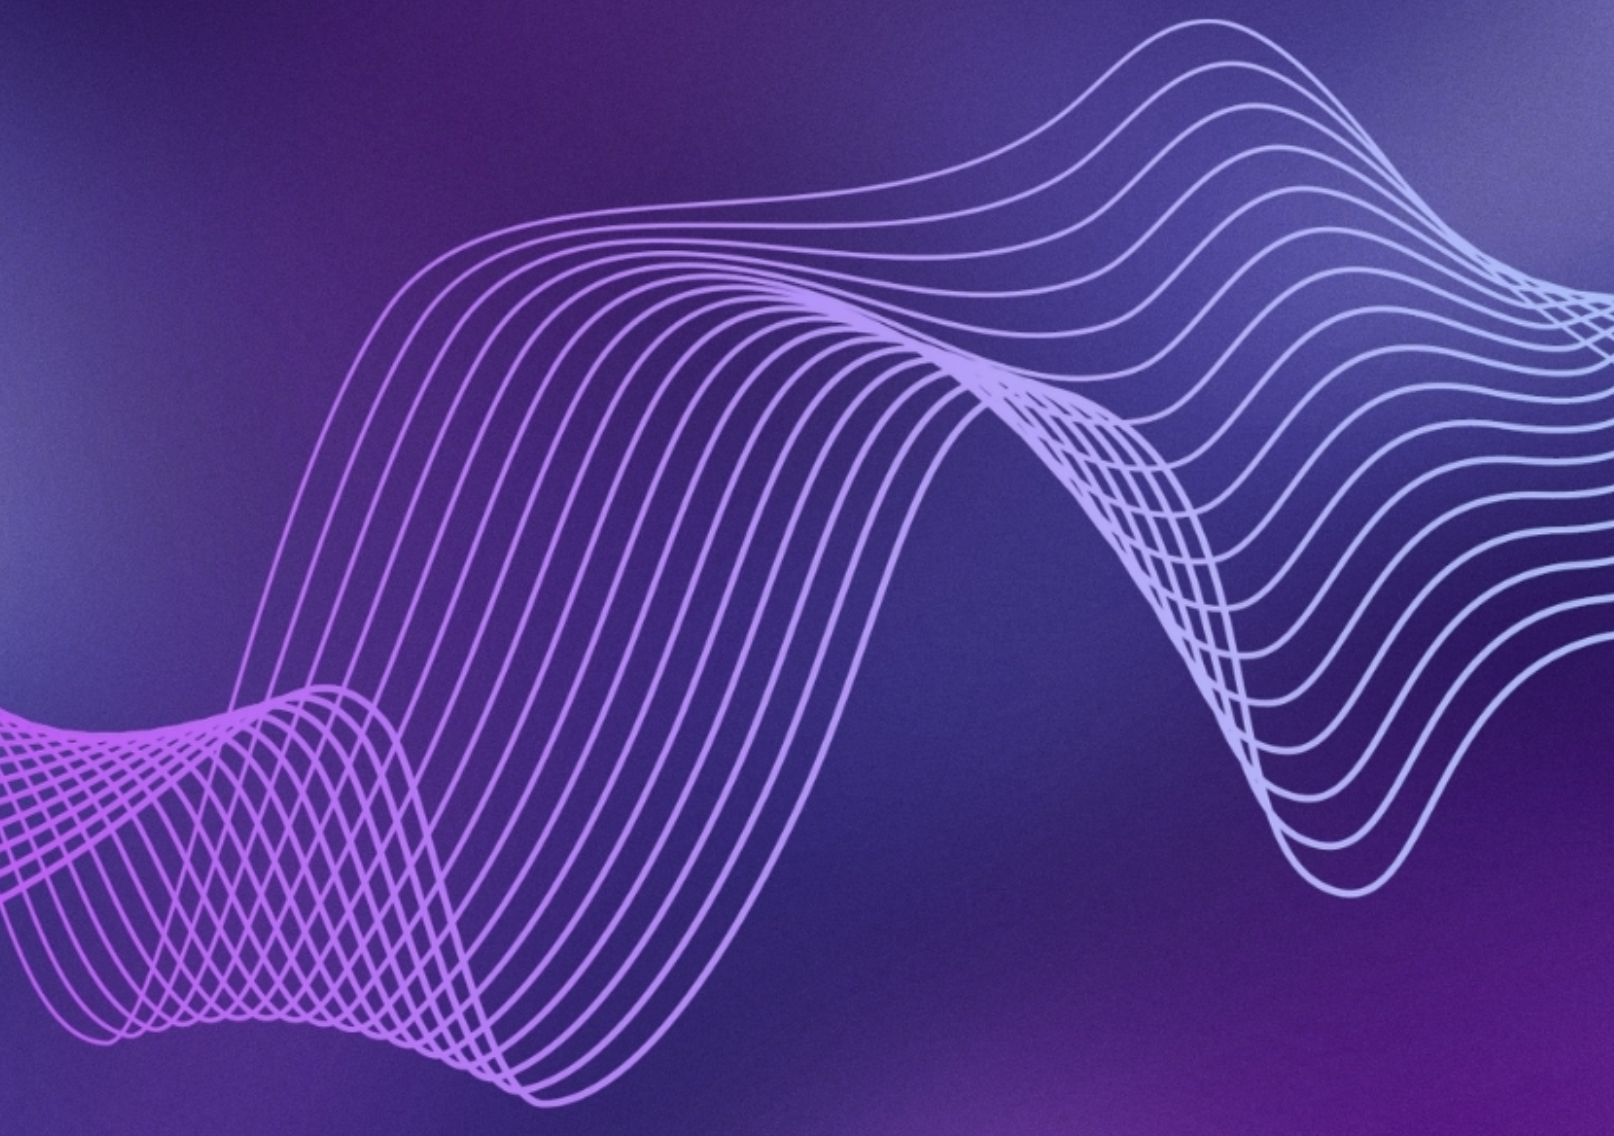
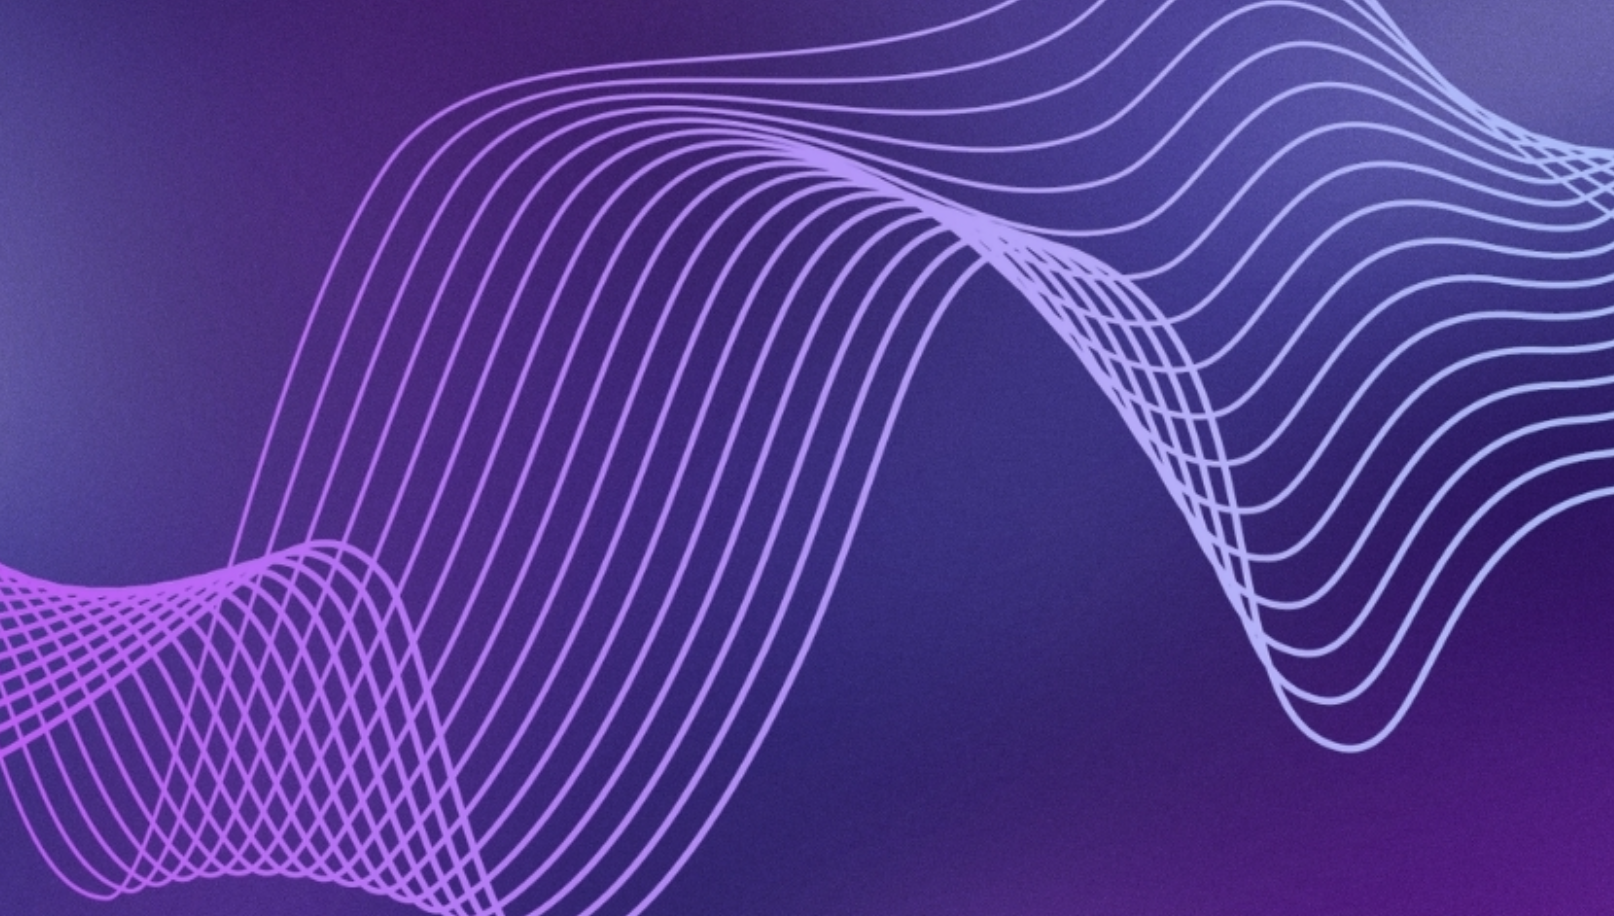
More updates.

diff --git a/index.html b/index.html
@@ -16,50 +16,38 @@ rep_row:
     title: "Research"
     excerpt: "Some of the research work being performed by the C3 lab and its partners.<br><br>"
     url: "/research/"
-    btn_label: "Read More"
-    btn_class: "btn--primary"
   - image_path: /assets/images/kris-talking.jpg
     alt: "engagement placeholder"
     title: "Engagement"
     excerpt: "In addition to our research work, the C3 Lab and its members are involved in a variety of endeavors across the Northwestern campus."
     url: "/engagement/"
-    btn_label: "Read More"
-    btn_class: "btn--primary"
   - image_path: /assets/images/lakefill-small.jpg
     alt: "people placeholder"
     title: "People"
     excerpt: "The hardworking folks who make up the C3 Lab.<br><br>"
     url: "/people/"
-    btn_label: "Read More"
-    btn_class: "btn--primary"
 ppp_row:
-  - image_path: /assets/images/c3-placeholder.png
+  - image_path: /assets/images/partners.jpg
     alt: "partners placeholder"
     title: "Partners"
     excerpt: ""
     url: "/partners/"
-    btn_label: "Read More"
-    btn_class: "btn--primary"
-  - image_path: /assets/images/c3-placeholder.png
+  - image_path: /assets/images/publication.png
     alt: "papers placeholder"
     title: "Papers"
     excerpt: ""
     url: "/papers/"
-    btn_label: "Read More"
-    btn_class: "btn--primary"
-  - image_path: /assets/images/c3-placeholder.png
+  - image_path: /assets/images/press.jpg
     alt: "people placeholder"
     title: "Press"
     excerpt: ""
     url: "/press/"
-    btn_label: "Read More"
-    btn_class: "btn--primary"
 ---
 
 <div class="intro-content">
   {% include feature_row id="intro" type="center" %}
 </div>
 
-{% include feature_row id="rep_row" %}
+{% include linked_feature_row.html id="rep_row" %}
 
-{% include feature_row id="ppp_row" %}
+{% include linked_feature_row.html id="ppp_row" %}

diff --git a/_includes/linked_feature_row.html b/_includes/linked_feature_row.html
@@ -1,0 +1,25 @@
+{% assign feature_row = page[include.id] %}
+
+<div class="feature__wrapper feature__wrapper--linked">
+  {% for f in feature_row %}
+    <div class="feature__item">
+      <a class="archive__item linked-feature-tile" href="{{ f.url | relative_url }}">
+        {% if f.image_path %}
+          <div class="archive__item-teaser">
+            <img src="{{ f.image_path | relative_url }}" alt="{{ f.alt | default: '' }}">
+          </div>
+        {% endif %}
+
+        <div class="archive__item-body">
+          {% if f.title %}
+            <h2 class="archive__item-title">{{ f.title }}</h2>
+          {% endif %}
+
+          {% if f.excerpt %}
+            <div class="archive__item-excerpt">{{ f.excerpt | markdownify }}</div>
+          {% endif %}
+        </div>
+      </a>
+    </div>
+  {% endfor %}
+</div>

diff --git a/assets/css/main.scss b/assets/css/main.scss
@@ -45,3 +45,29 @@ $link-color: #4e2a84;
     object-fit: cover;
     object-position: center;
 }
+
+.linked-feature-tile {
+    display: block;
+    height: 100%;
+    color: inherit;
+    text-decoration: none;
+    border-radius: 4px;
+    transition: box-shadow 0.2s ease, transform 0.2s ease;
+}
+
+.page__content a.linked-feature-tile:hover,
+.page__content a.linked-feature-tile:focus-visible {
+    color: inherit;
+    text-decoration: none;
+    box-shadow: 0 0 0 3px $primary-color;
+    transform: translateY(-2px);
+}
+
+.linked-feature-tile:focus-visible {
+    outline: 3px solid #fff;
+    outline-offset: -6px;
+}
+
+.linked-feature-tile .archive__item-title {
+    color: $link-color;
+}

diff --git a/_pages/press.md b/_pages/press.md
@@ -26,7 +26,7 @@ project2:
     btn_label: "Read More"
     btn_class: "btn--primary"
 project3:
-  - image_path: /assets/images/c3-placeholder.png
+  - image_path: /assets/images/msai_with_globe_watermark.png
     alt: "placeholder image 2"
     title: "Master of Artificial Intelligence"
     excerpt: "Northwestern’s Master of Science in Artificial Intelligence (MSAI) program aims to serve this demand by producing graduates who have exceptional technical skills to create new AI systems and who also understand the nature of the human environments in which the systems they build will be deployed."
